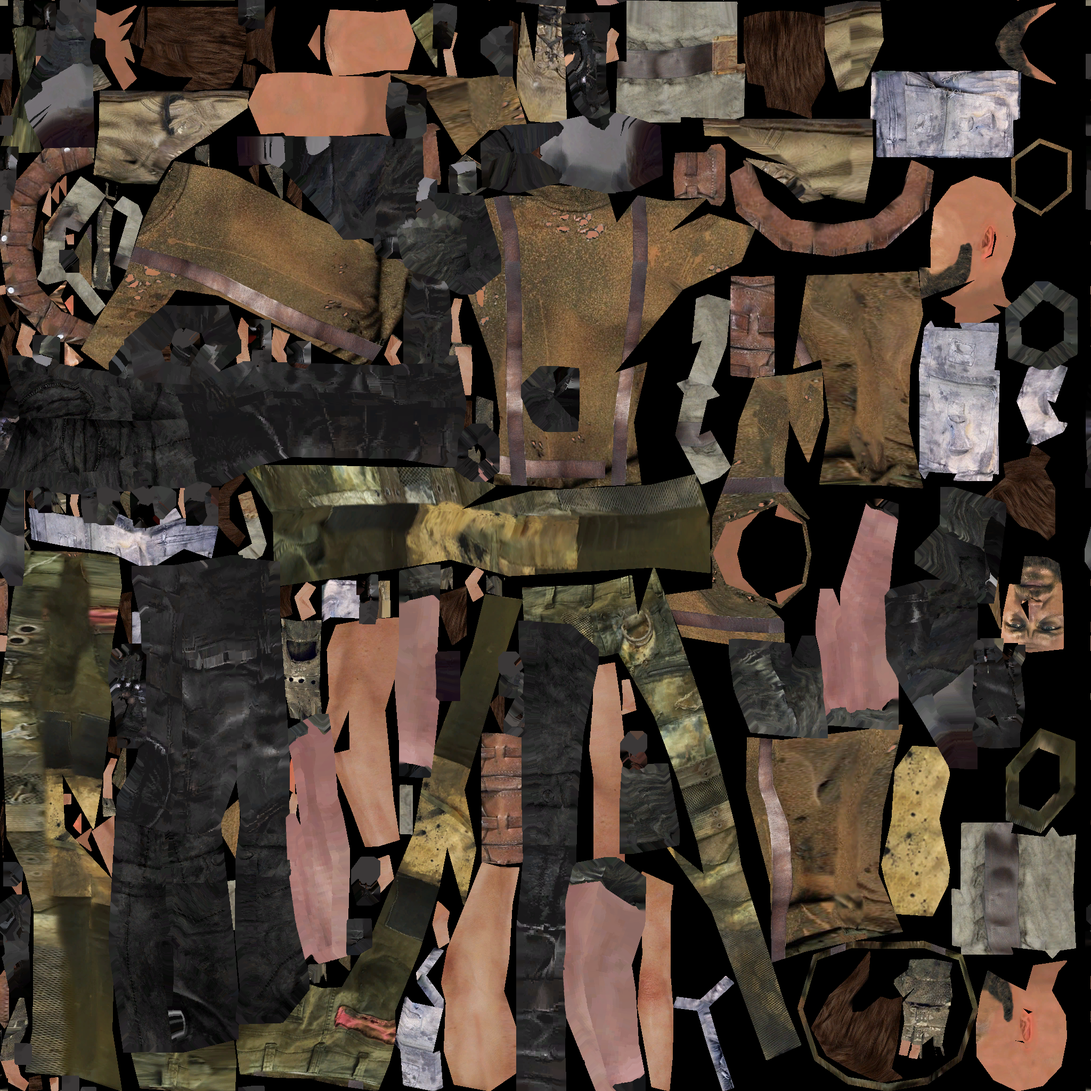
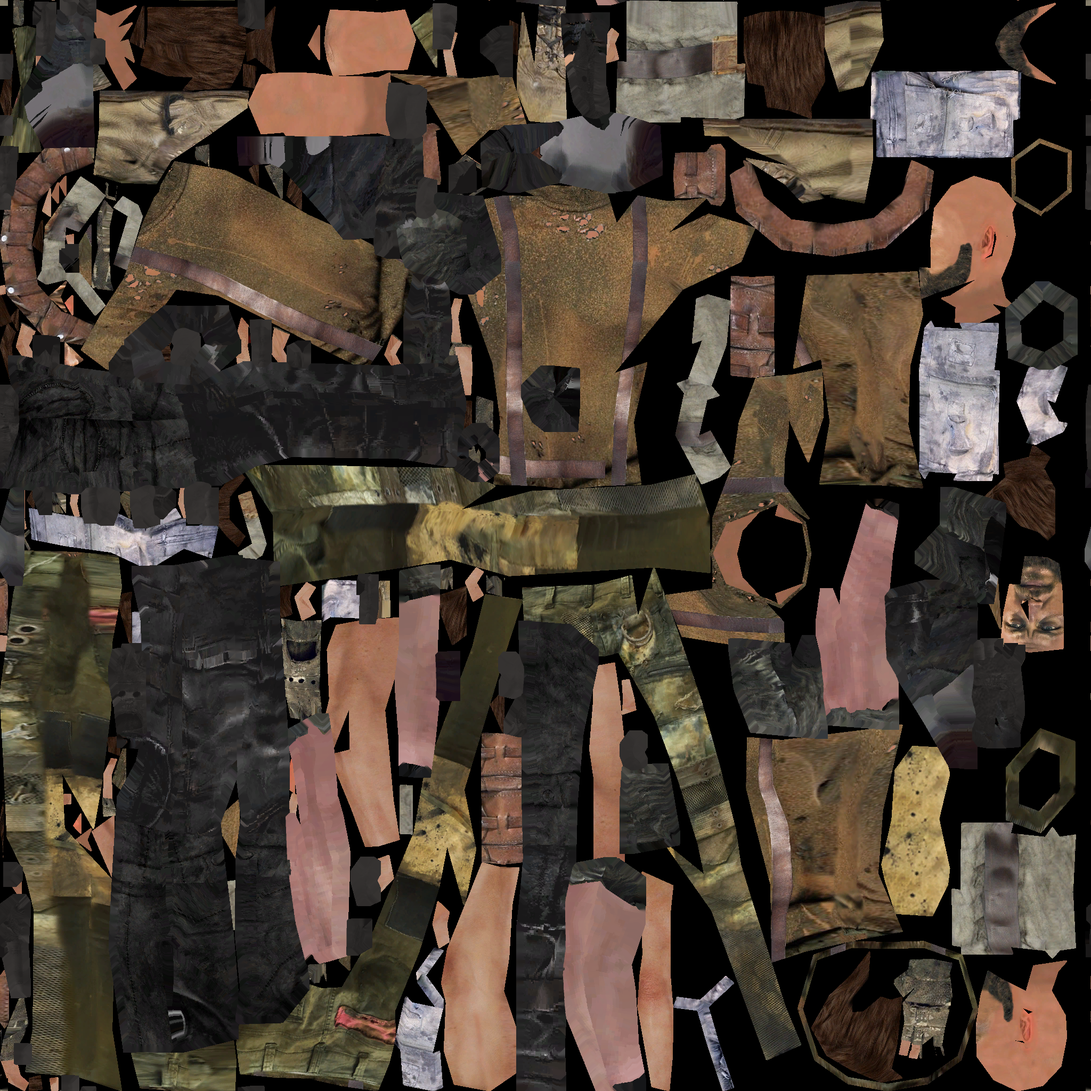
Apocaplayer: clean first-person gloves for Max (game glove shading in Max's glove colour)
Claude-Session: https://claude.ai/code/session_01SV8LCo9uDybK3kq6isNXvN

diff --git a/tools/max_arms/fix_hands.py b/tools/max_arms/fix_hands.py
@@ -1,0 +1,54 @@
+# Max's first-person gloves: the projected bake (bake_max2.py) smears Max's low-poly mitten onto the game's fist (fingers, knuckles),
+# leaving grey patches and bright specks. Replace every hand texel with the game's own glove shading re-coloured to Max's glove colour,
+# then re-pad the islands. Run after bake_max2.py, from the same folder.
+import json,numpy as np,glb
+from PIL import Image
+from matplotlib.path import Path
+W=2048
+def masks(meshes):
+    hand=np.zeros((W,W),bool); other=np.zeros((W,W),bool)
+    for mesh in meshes:
+        d=json.load(open('_export/%s.json'%mesh)); UV=np.array(d['uv']).reshape(-1,2); T=np.array(d['tris']).reshape(-1,3)
+        bw=np.array(d['bw']); bi=np.array(d['bi']); bn=[b.split('/')[-1] for b in d['bones']]
+        dom=bi[np.arange(len(bi)),bw.argmax(1)]
+        for t in T:
+            segs=[bn[dom[i]][:4] for i in t]; seg=max(set(segs),key=segs.count)
+            p=np.array([(UV[i,0]*W,(1-UV[i,1])*W) for i in t])
+            x0,y0=np.maximum(np.floor(p.min(0)).astype(int)-1,0); x1,y1=np.minimum(np.ceil(p.max(0)).astype(int)+1,W-1)
+            gx,gy=np.meshgrid(np.arange(x0,x1+1)+.5,np.arange(y0,y1+1)+.5)
+            m=Path(p).contains_points(np.c_[gx.ravel(),gy.ravel()],radius=1.0).reshape(gx.shape)
+            yy,xx=np.nonzero(m); yy+=y0; xx+=x0
+            (hand if seg=='hand' else other)[yy,xx]=True
+    return hand,other
+def glove_colour(side):
+    f=glb.load('Player_max.glb'); tex=np.asarray(Image.open('Player_max.png').convert('RGB')).astype(float); H,Wt=tex.shape[:2]
+    fj={n.split(':')[1]:i for i,n in enumerate(f['jnames'])}
+    dom=f['J'][np.arange(len(f['J'])),f['Wt'].argmax(1)]
+    uv=f['UV'][dom==fj[side+'Hand']]
+    c=tex[(uv[:,1]*(H-1)).astype(int).clip(0,H-1),(uv[:,0]*(Wt-1)).astype(int).clip(0,Wt-1)]
+    c=c[(c.mean(1)>15)&(c.mean(1)<90)]           # drop specks/black seams
+    return np.median(c,0)
+org=np.asarray(Image.open('_export/Player2.png').convert('RGB')).astype(float)
+for png,mesh,side,leg in [('Player2_max_arms.png','player_arm_left_002','Right',True),('Player2_max_arms_left.png','player_arm_left','Left',False)]:
+    new=np.asarray(Image.open(png).convert('RGB')).astype(float).copy()
+    hand,other=masks([mesh]+(['Player_leg'] if leg else []))
+    h=hand&~other
+    gc=glove_colour(side)
+    lum=org[h].mean(-1); lm=np.median(lum)
+    k=np.clip(0.55+0.45*lum/lm,0.6,1.5)[:,None]     # keep the game's folds/seams, softened
+    new[h]=np.clip(gc*1.15*k,0,255)
+    if side=='Left':   # sleeve side: stray skin-coloured texels from the wrist projection -> glove colour
+        r,g,b=new[...,0],new[...,1],new[...,2]; sk=other&(r-b>35)&(r>90)
+        new[sk]=np.clip(gc*1.15,0,255); print('left sleeve skin texels',sk.sum())
+    used=hand|other; filled=used.copy()
+    # re-pad: unused texels next to islands take the island colour (mipmaps)
+    work=new.copy(); work[~used]=0
+    for _ in range(12):
+        acc=np.zeros_like(work); cnt=np.zeros((W,W))
+        for dy,dx in ((1,0),(-1,0),(0,1),(0,-1),(1,1),(1,-1),(-1,1),(-1,-1)):
+            sh=np.roll(np.roll(filled,dy,0),dx,1); sv=np.roll(np.roll(work,dy,0),dx,1)
+            acc[sh]+=sv[sh]; cnt[sh]+=1
+        grow=(~filled)&(cnt>0); work[grow]=acc[grow]/cnt[grow][:,None]; filled|=grow
+    pad=filled&~used; new[pad]=work[pad]
+    Image.fromarray(new.clip(0,255).astype(np.uint8)).save(png)
+    print(png,'glove',gc.round(),'hand texels',h.sum())
